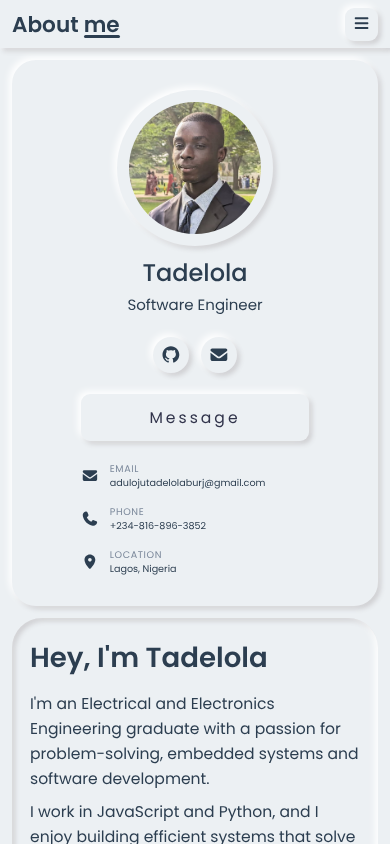
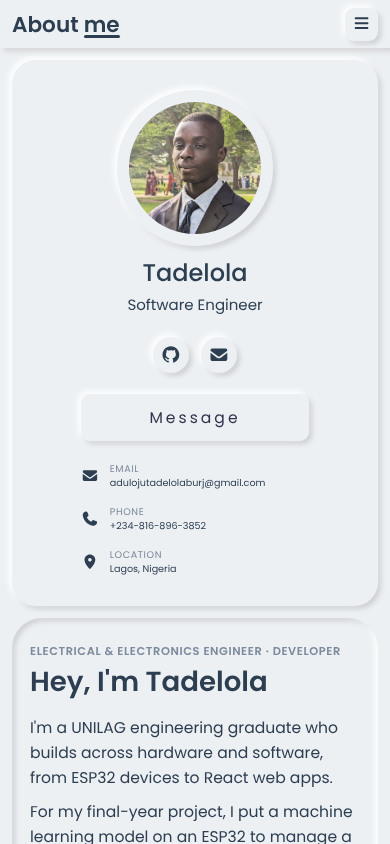
Redesign About section
- Round all corners of the hero photo
- Sharper intro that mentions the ESP32 machine learning project
- Add skill highlights and View my work / Get in touch buttons
- Fill the empty space under the intro card; tune sizes for laptops

Changed region(s): [[0.0615, 0.7393, 0.9231, 1.0]]

diff --git a/styles.css b/styles.css
@@ -377,9 +377,10 @@ section h2 {
 .about-content {
     position: absolute;
     left: 2rem;
-    top: 14rem;
-    width: 36%;
-    padding: 4rem 3rem;
+    top: 50%;
+    transform: translateY(-50%);
+    width: 38%;
+    padding: 4.5rem 4rem;
     border-radius: 5rem;
     background-color: var(--primary-color);
     box-shadow: var(--pressed);
@@ -399,6 +400,65 @@ section h2 {
     margin-bottom: 1.5rem;
 }
 
+.about-content .eyebrow {
+    font-size: 1.9rem;
+    font-weight: 600;
+    letter-spacing: .1rem;
+    text-transform: uppercase;
+    color: var(--light-text-color);
+    margin-bottom: 1rem;
+}
+
+.highlights {
+    list-style: none;
+    display: flex;
+    flex-wrap: wrap;
+    gap: 1.4rem;
+    margin: 3rem 0 3.5rem;
+}
+
+.highlights li {
+    display: flex;
+    align-items: center;
+    gap: 1rem;
+    padding: 1.1rem 2rem;
+    font-size: 1.9rem;
+    font-weight: 500;
+    border-radius: 5rem;
+    box-shadow: var(--raised);
+}
+
+.hero-actions {
+    display: flex;
+    flex-wrap: wrap;
+    gap: 2rem;
+}
+
+.hero-btn {
+    padding: 1.6rem 3.4rem;
+    font-size: 2.1rem;
+    font-weight: 600;
+    color: var(--text-color);
+    border-radius: 5rem;
+    box-shadow: var(--raised);
+    transition: box-shadow .2s ease;
+}
+
+.hero-btn.primary {
+    color: var(--primary-color);
+    background-color: var(--text-color);
+    box-shadow: 3px 3px 6px var(--shadow-dark), -3px -3px 7px var(--shadow-light);
+}
+
+.hero-btn:hover {
+    box-shadow: var(--pressed);
+}
+
+.hero-btn.primary:hover {
+    background-color: #1f2d3a;
+    box-shadow: 1px 1px 3px var(--shadow-dark);
+}
+
 .aboutme .about-picture {
     width: 78%;
     margin-left: auto;
@@ -410,8 +470,7 @@ section h2 {
     height: 100%;
     min-height: 60rem;
     background: url(images/aboutmain.PNG) center / cover;
-    border-top-right-radius: 5rem;
-    border-bottom-right-radius: 5rem;
+    border-radius: 5rem;
     display: flex;
     position: relative;
 }
@@ -471,7 +530,7 @@ section h2 {
 .aboutme .about-picture .right-bottom span {
     margin: auto;
     padding: 2rem 4rem;
-    font-size: clamp(2.6rem, 2.2vw, 4rem);
+    font-size: clamp(2.4rem, 1.8vw, 3.6rem);
     white-space: nowrap;
     color: var(--text-color);
     border-radius: 5rem;
@@ -889,12 +948,24 @@ textarea.contact-input ~ .icon {
     .sticky-sidebar { border-radius: 5rem; }
 }
 
+/* ================= LAPTOPS: tighter hero ================= */
+@media (max-width: 1600px) and (min-width: 1101px) {
+    .about-content { width: 44%; padding: 3.5rem 3.2rem; }
+    .about-content .eyebrow { font-size: 1.6rem; }
+    .about-content h1 { font-size: clamp(3.6rem, 3vw, 4.6rem); margin-bottom: 2rem; }
+    .about-content p { font-size: 2.1rem; line-height: 1.55; margin-bottom: 1.2rem; }
+    .highlights { gap: 1rem; margin: 2.2rem 0 2.6rem; }
+    .highlights li { font-size: 1.65rem; padding: .9rem 1.6rem; gap: .8rem; }
+    .hero-btn { font-size: 1.9rem; padding: 1.4rem 2.8rem; }
+    .aboutme .about-picture .right-bottom span { padding: 1.6rem 3rem; }
+}
+
 /* ================= SMALL LAPTOPS ================= */
 @media (max-width: 1350px) {
     .navbar a { font-size: 2.8rem; }
     .logo-container { font-size: 3.8rem; }
     .current-select { width: 11rem; }
-    .about-content { width: 40%; top: 10rem; }
+    .about-content { width: 46%; }
     .about-content p { font-size: 2.2rem; }
     .skills { flex-direction: column; }
     .edu-exp, .coding-skills { width: 100%; }
@@ -1023,6 +1094,7 @@ textarea.contact-input ~ .icon {
 
     .about-content {
         position: static;
+        transform: none;
         width: 100%;
         padding: 4rem 3.5rem;
     }

diff --git a/index.html b/index.html
@@ -75,15 +75,25 @@
     <!--section aboutme-->
     <section class="aboutme" id="about">
         <div class="about-content">
+            <p class="eyebrow">Electrical &amp; Electronics Engineer · Developer</p>
             <h1>Hey, I'm Tadelola</h1>
-            <p>I'm an Electrical and Electronics Engineering graduate with a passion for problem-solving, embedded systems and software development.</p>
-            <p>I work in JavaScript and Python, and I enjoy building efficient systems that solve real-world challenges.</p>
+            <p>I'm a UNILAG engineering graduate who builds across hardware and software, from ESP32 devices to React web apps.</p>
+            <p>For my final-year project, I put a machine learning model on an ESP32 to manage a solar-powered sensor node.</p>
+            <ul class="highlights">
+                <li><i class="fa-solid fa-microchip"></i> Embedded systems</li>
+                <li><i class="fa-solid fa-brain"></i> Machine learning</li>
+                <li><i class="fa-solid fa-code"></i> Web development</li>
+            </ul>
+            <div class="hero-actions">
+                <a href="#projects" class="hero-btn primary">View my work</a>
+                <a href="#contacts" class="hero-btn">Get in touch</a>
+            </div>
         </div>
         <div class="about-picture">
             <div class="image-container">
                 <div class="left-curve"></div>
                 <div class="right-bottom">
-                    <span>Software Engineer</span>
+                    <span>Embedded · ML · Web</span>
                 </div>
             </div>
         </div>
